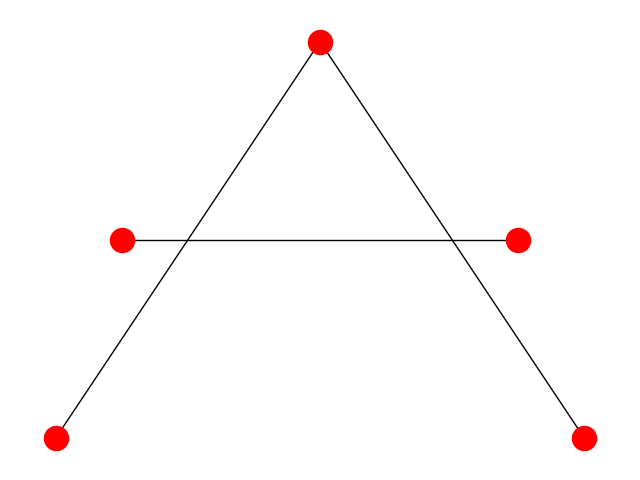
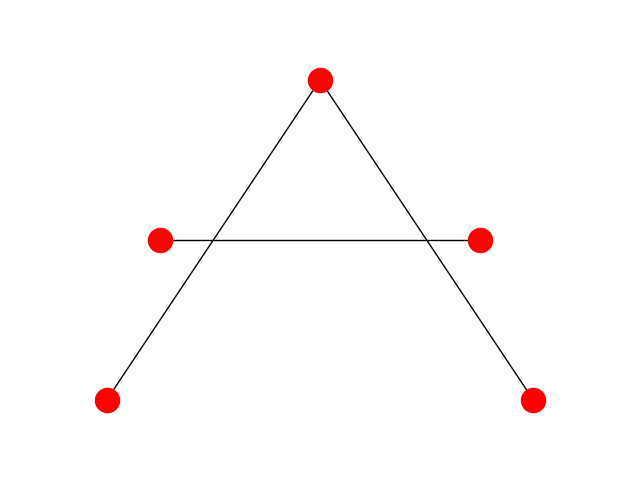
Add some prototypes

diff --git a/Plotter.py b/Plotter.py
@@ -5,6 +5,8 @@ import matplotlib.pyplot as plt
 def plot_graph(g, show=False, save_path=''):
     fig = plt.figure()
     nx.draw(g, pos={k: v['coord'] for k, v in g.node.items()})
+    plt.ylim([0-0.5,2+0.5])
+    plt.xlim([0-0.5,2+0.5])
     if show:
         plt.show()
     fig.savefig(save_path)
